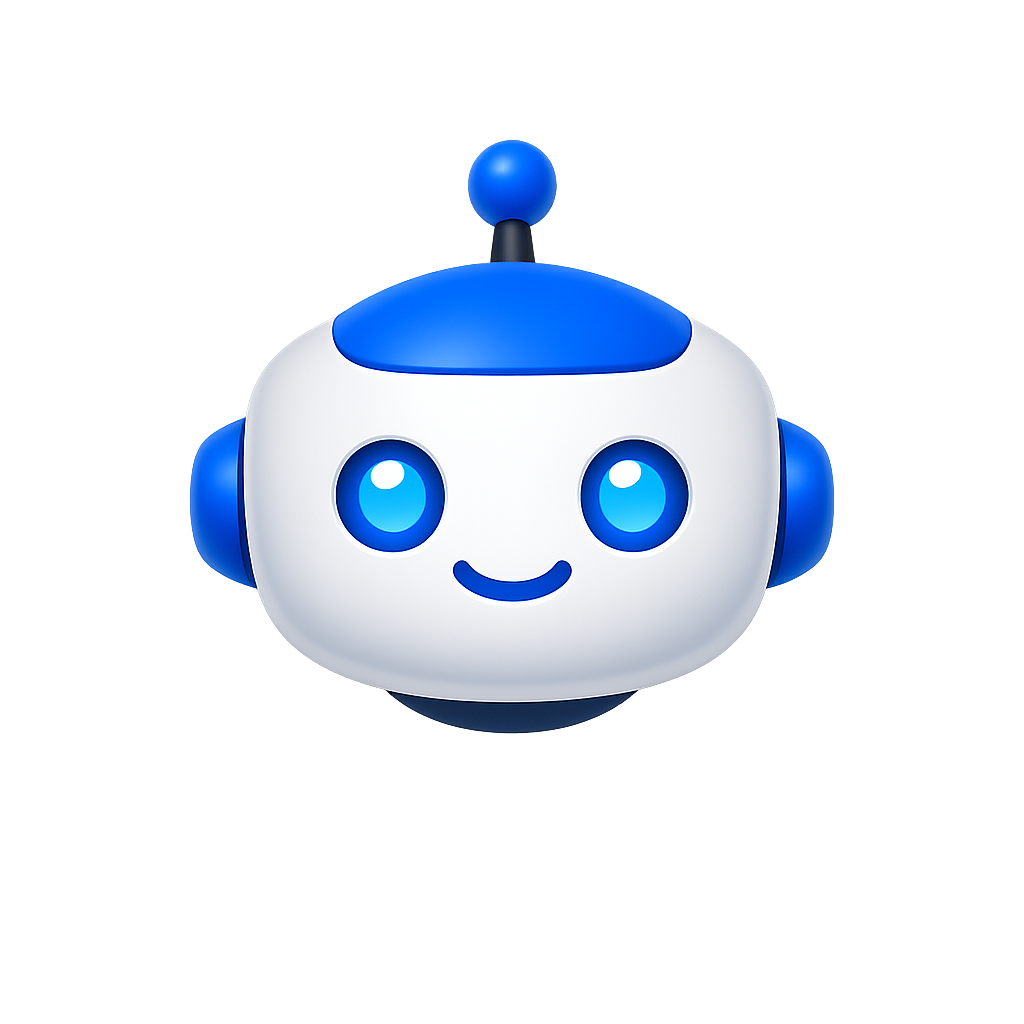
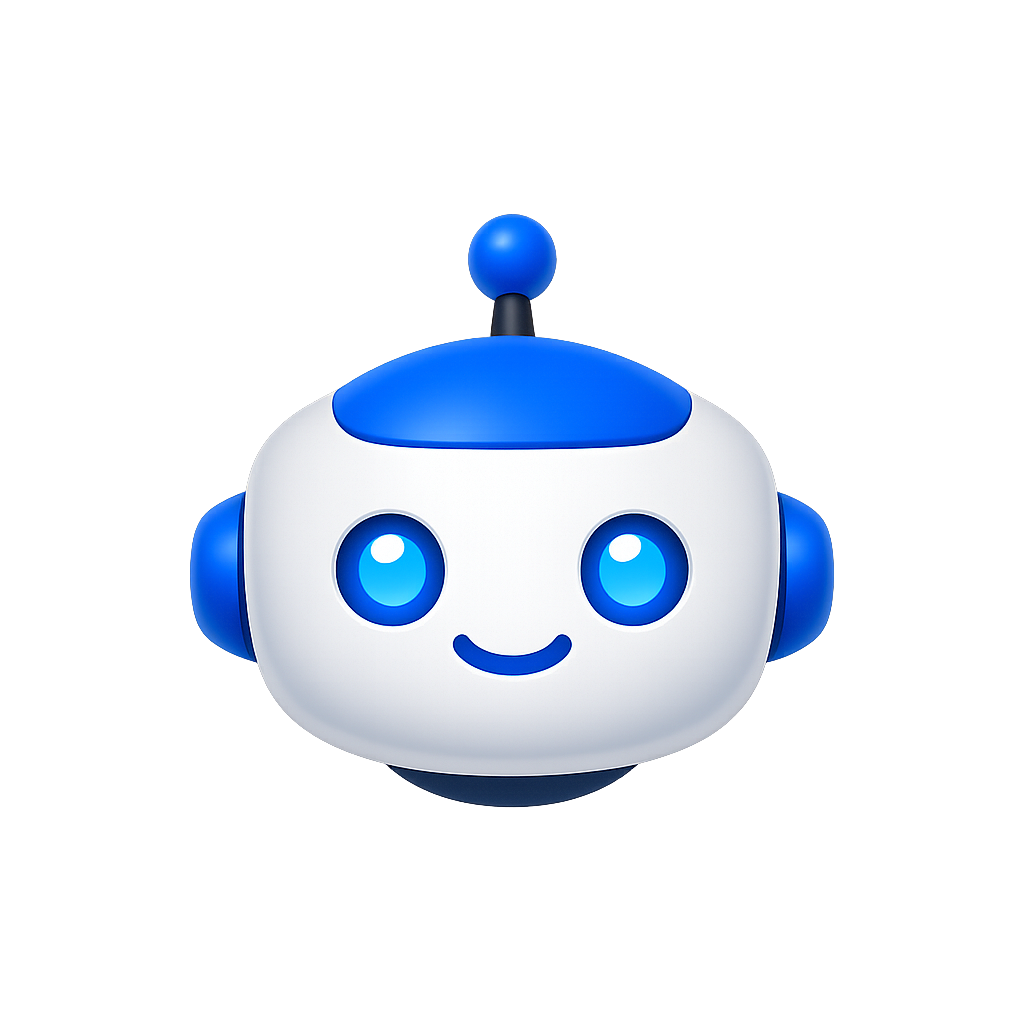
ui: optically recenter the robot assets + symmetric speech bubbles
The alignment complaints traced to the PNGs themselves: robot-icon.png
had its content 74px above the canvas center, robot-mascot.png 41px
right and 14px up — CSS centering was centering empty pixels. Both
assets are now cropped to content and recentered on their square canvas
(verified content center == canvas center), so every flex-center in the
dropdown, bubbles and welcome screen is now truthful.

Also harmonized the speech bubbles: they sat at different heights
(-10%/-25%) and distances (60%/55%) — now mirrored at 58% and the same
height for a balanced composition.

Changed region(s): [[0.1875, 0.125, 0.8125, 0.8125]]

diff --git a/web-ui/src/components/RobotMascot.tsx b/web-ui/src/components/RobotMascot.tsx
@@ -30,8 +30,8 @@ export function RobotMascot() {
           transition={{ duration: 0.4, delay: 0.9, ease: easeOut }}
           className="absolute hidden sm:flex items-center gap-1.5 px-2.5 sm:px-3.5 py-1.5 sm:py-2 rounded-2xl whitespace-nowrap"
           style={{
-            right: '60%',
-            top: '-10%',
+            right: '58%',
+            top: '-18%',
             backgroundColor: 'var(--bg-surface)',
             border: '1px solid var(--border-subtle)',
             boxShadow: 'var(--shadow-sm)',
@@ -59,8 +59,8 @@ export function RobotMascot() {
           transition={{ duration: 0.4, delay: 1.05, ease: easeOut }}
           className="absolute hidden sm:flex items-center gap-1.5 px-2.5 sm:px-3.5 py-1.5 sm:py-2 rounded-2xl whitespace-nowrap"
           style={{
-            left: '55%',
-            top: '-25%',
+            left: '58%',
+            top: '-18%',
             backgroundColor: 'var(--bg-surface)',
             border: '1px solid var(--border-subtle)',
             boxShadow: 'var(--shadow-sm)',
